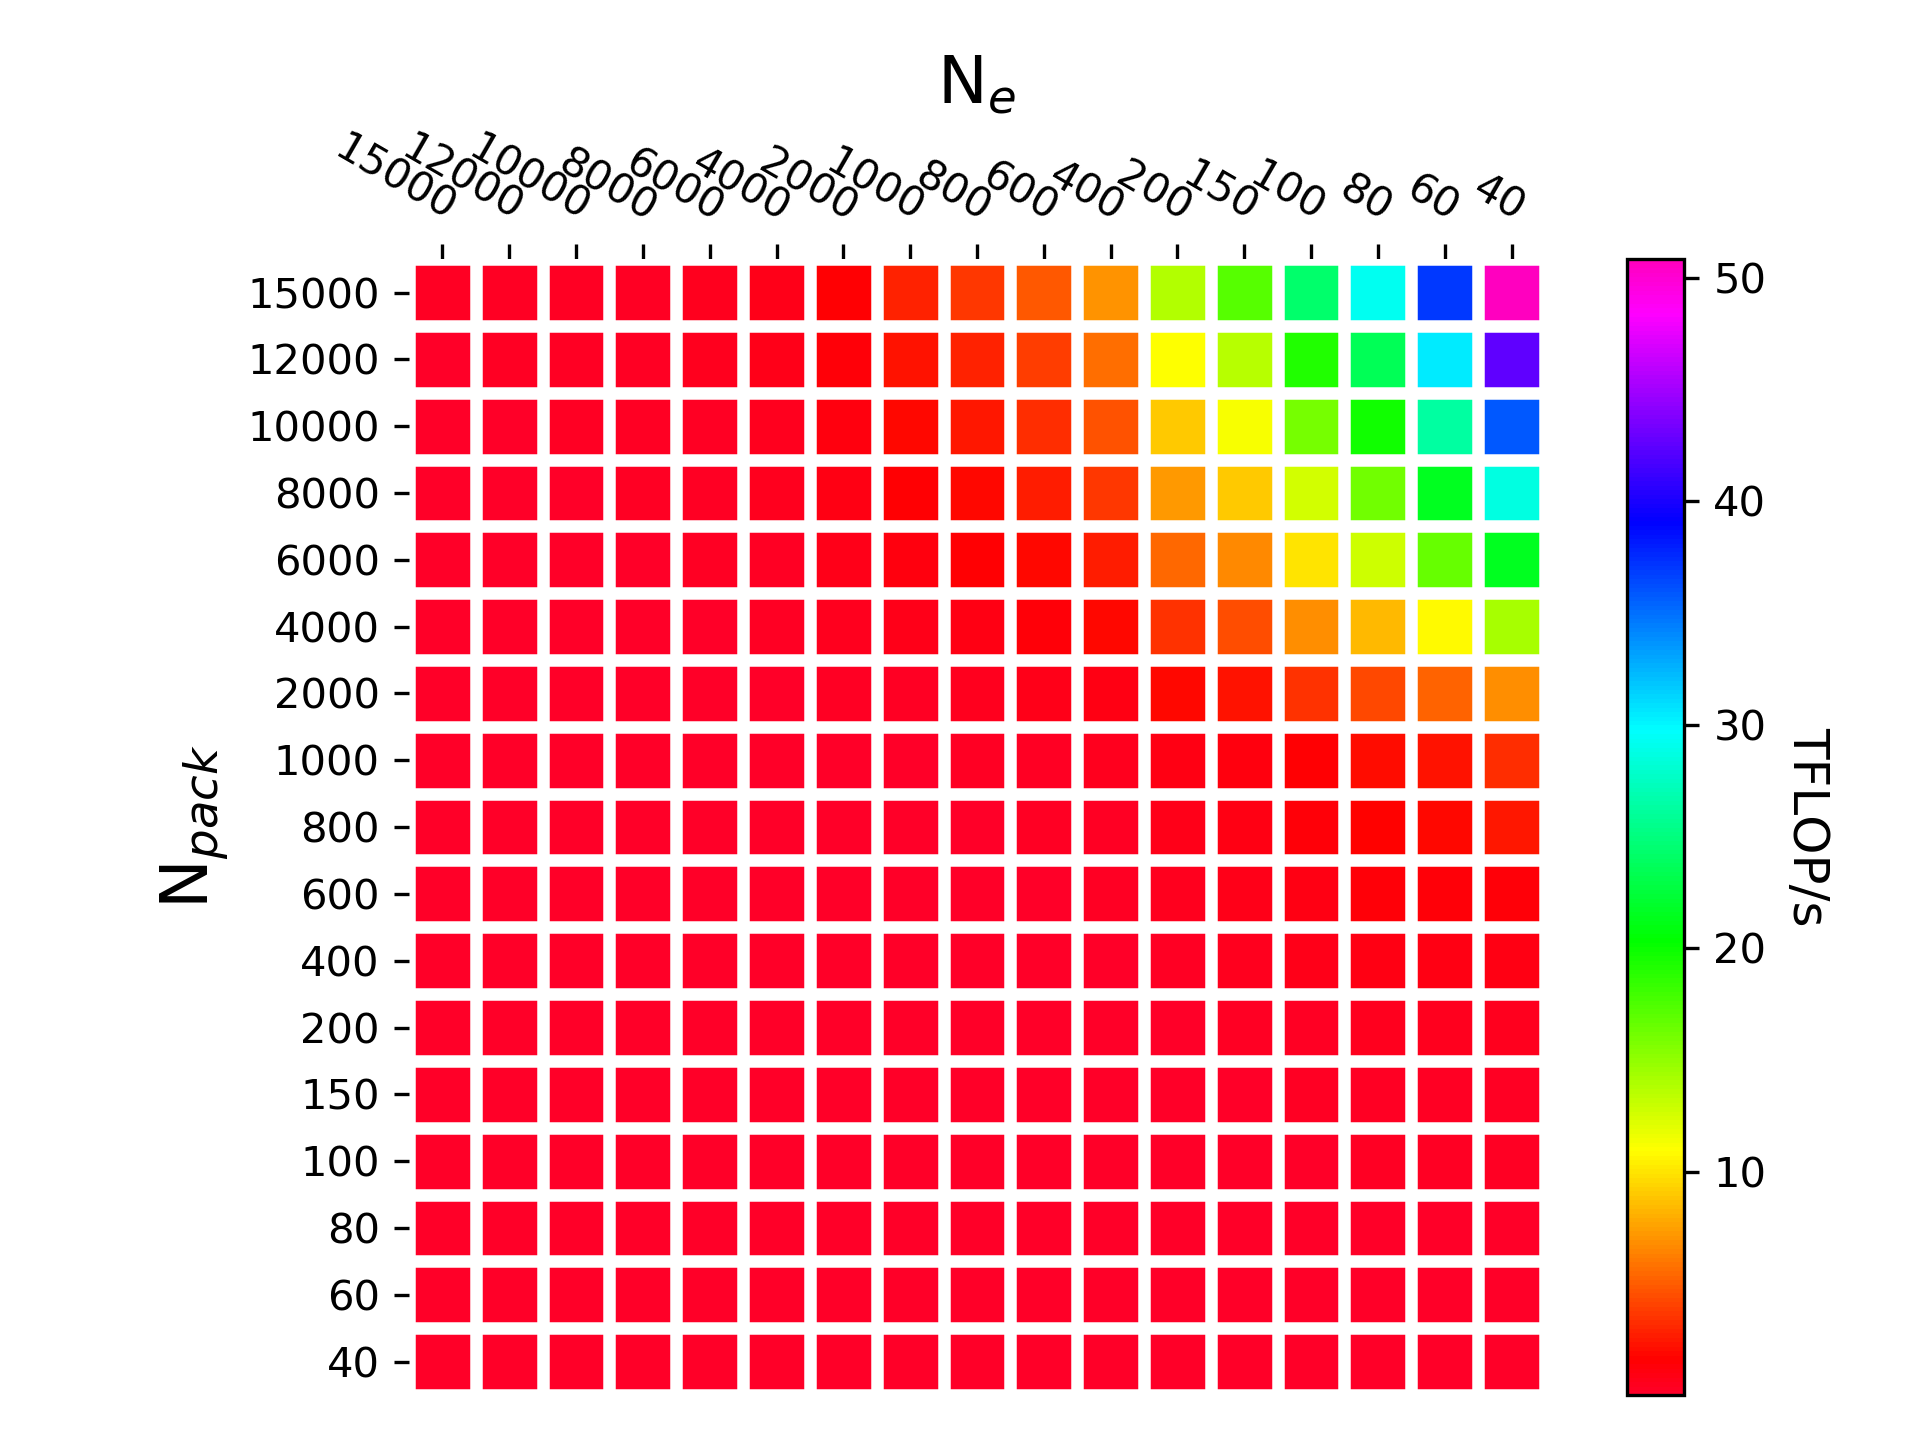
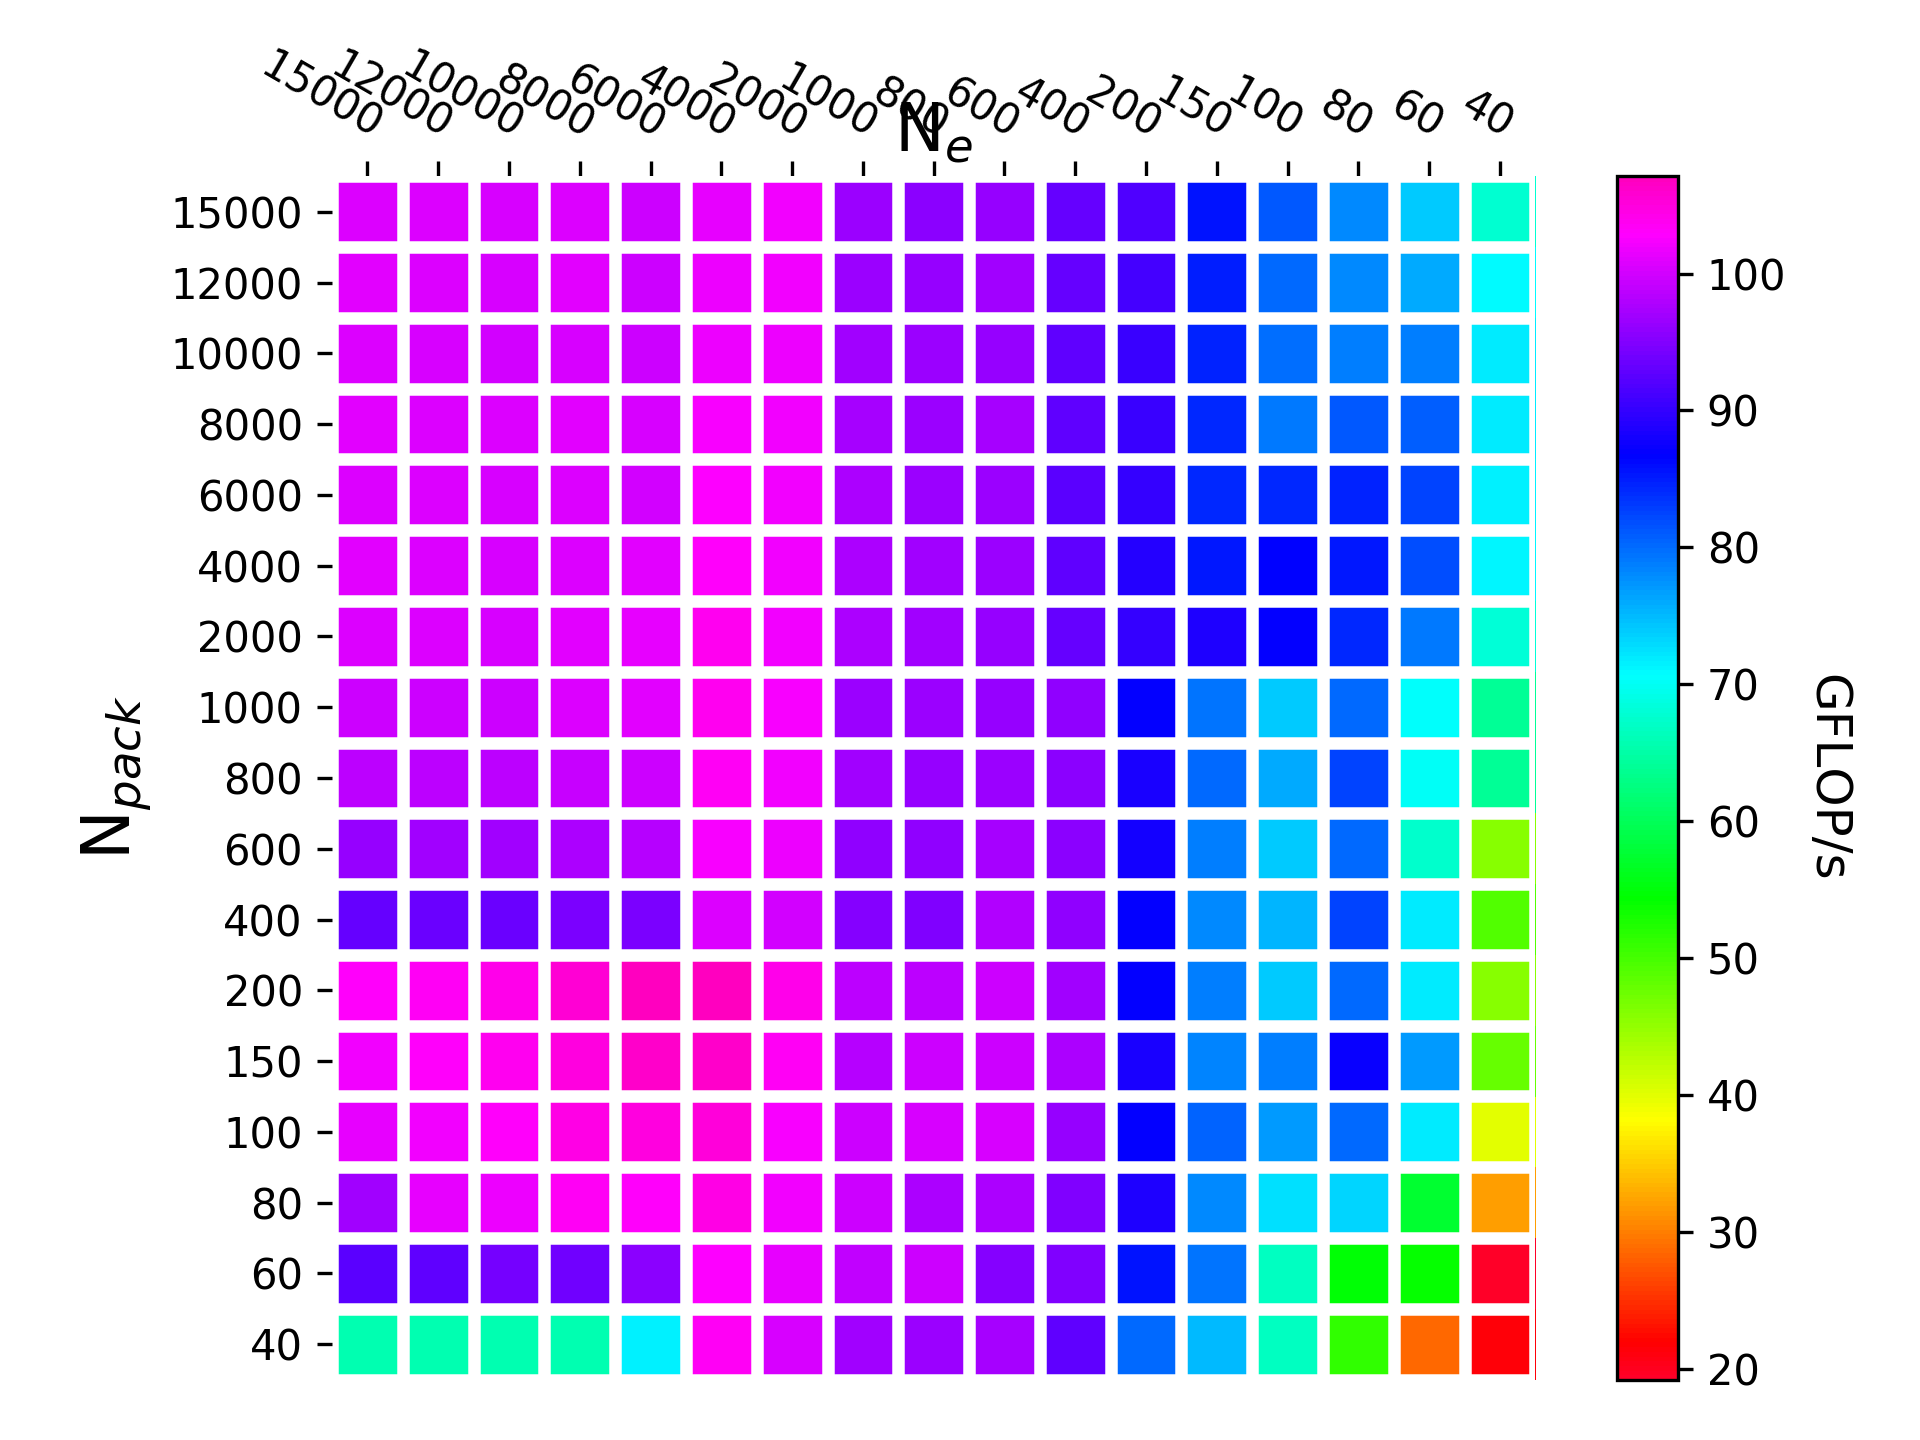
fixed GFLOP formula...EJB

diff --git a/parallel_comput_2020/ffm/heatmap_gflops.py b/parallel_comput_2020/ffm/heatmap_gflops.py
@@ -48,9 +48,13 @@ CPUgflopspersec=np.zeros(np.shape(CPUtimeinmicrosec))
 GPUgflopspersec=np.zeros(np.shape(GPUtimeinmicrosec))
 
 for idx, i in enumerate(npack):
+    print "jdx,j=",idx,i
     for jdx, j in enumerate(ne):
-        CPUgflopspersec[idx, jdx] = (2 * i**2 * j * 1e-6) / CPUtimeinmicrosec[idx, jdx]
-        GPUgflopspersec[idx, jdx] = (2 * i**2 * j * 1e-6) / GPUtimeinmicrosec[idx, jdx]
+        print "jdx,j=",jdx,j
+        CPUgflopspersec[idx, jdx] = (i * j*j * 1e-6) / (CPUtimeinmicrosec[idx, jdx]*1.0e-3)
+        GPUgflopspersec[idx, jdx] = (i * j*j * 1e-6) / (GPUtimeinmicrosec[idx, jdx]*1.0e-3)
+
+print "GPU=",GPUgflopspersec
 
 def heatmap(data, row_labels, col_labels, ax=None,
             cbar_kw={}, cbarlabel="", **kwargs):
@@ -117,13 +121,13 @@ def heatmap(data, row_labels, col_labels, ax=None,
 
 fig, ax = plt.subplots()
 im, cbar = heatmap(CPUgflopspersec, ne, npack, ax=ax,
-                   cmap="gist_rainbow", cbarlabel="TFLOP/s")
+                   cmap="gist_rainbow", cbarlabel="GFLOP/s")
 fig.tight_layout()
 plt.savefig('FFM_CPU.png', dpi=300)
 
 fig, ax = plt.subplots()
 im, cbar = heatmap(GPUgflopspersec, ne, npack, ax=ax,
-                   cmap="gist_rainbow", cbarlabel="TFLOP/s")
+                   cmap="gist_rainbow", cbarlabel="GFLOP/s")
 fig.tight_layout()
 plt.savefig('FFM_GPU.png', dpi=300)
 
